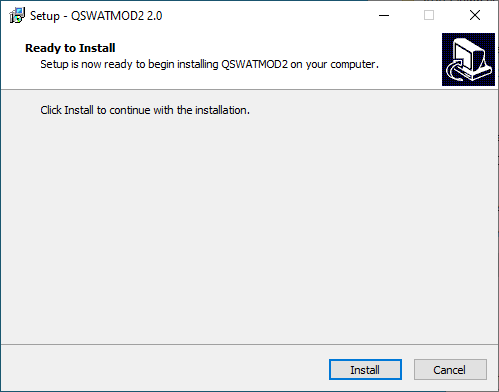
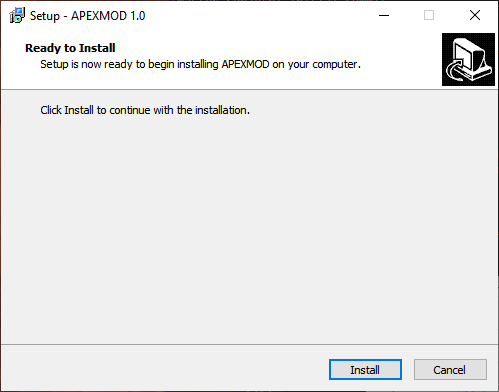
initial commit

diff --git a/README.md b/README.md
@@ -1,22 +1,22 @@
-# <img src="./imgs/icon.png" style="float" width="60" align="center"> &nbsp; QSWATMOD2
+# <img src="./imgs/icon.png" style="float" width="80" align="center"> &nbsp; APEXMOD
 
-#### :exclamation: ***Note:*** `QSWATMOD2 is compatible with QGIS3.`
+#### :exclamation: ***Note:*** `APEXMOD is compatible with QGIS3.`
 
-[QSWATMOD](https://swat.tamu.edu/software/swat-modflow/) is a QGIS-based graphical user interface that facilitates linking SWAT and MODFLOW, running SWAT-MODFLOW simulations, and viewing results.  
+APEXMOD is a QGIS-based graphical user interface that facilitates linking [APEX](https://epicapex.tamu.edu/apex//) and [MODFLOW](https://www.usgs.gov/mission-areas/water-resources/science/modflow-and-related-programs?qt-science_center_objects=0#qt-science_center_objects), running APEX-MODFLOW simulations, and viewing results.  
 
-This repository contains source codes and an executable for the new version of QSWATMOD.
-All other materials: example dataset and tutorial document can be downloaded from the old version of QSWATMOD repository.
-- **[Installer](https://github.com/spark-brc/QSWATMOD2/tree/master/Installer):** QSWATMOD 2.0.exe
-- **[Inputs](https://github.com/spark-brc/QSWATMOD2/tree/master/Inputs):** ExampleDataset.zip
-- **[Source Code](https://github.com/spark-brc/QSWATMOD2/tree/master/QSWATMOD2)**
-- **[Tutorial Document](https://github.com/spark-brc/qswatmod/blob/master/QSWATMOD%20Tutorial.pdf)**
+This repository contains source codes and an executable for the new version of APEXMOD.
+All other materials: example dataset and tutorial document can be downloaded from the old version of APEXMOD repository.
+- **[Installer](https://github.com/spark-brc/APEXMOD/releases/tag/1.0.a):** APEXMOD 1.0.a.exe
+- **[Inputs](https://drive.google.com/drive/folders/1FPpKub6IljjjncCjxZeV6LIsZ-HpYsJP?usp=sharing):** Animas Dataset.zip
+- **[Source Code](https://github.com/spark-brc/APEXMOD/tree/master/APEXMOD)**
+- **[Tutorial Document](https://github.com/spark-brc/qswatmod/blob/master/APEXMOD%20Tutorial.pdf)** will be provided soon!
 
 -----
-# Installation
-The QGIS3 software must be installed on the system prior to the installation of QSWATMOD2. We've tested QSWATMOD2 with the "latest release" (3.12.2) and  “long term release (LTR)” (3.10.4 ~ 3.10.5) versions of QGIS3.
+# <img src="./imgs/icon2.png" style="float" width="80" align="center"> &nbsp; Installation
+The QGIS3 software must be installed on the system prior to the installation of APEXMOD. We've tested APEXMOD with the “long term release (LTR)” (3.10.4 ~ 3.10.10) versions of QGIS3.
 
 - Install one of the versions of QGIS. It can be downloaded from https://qgis.org/en/site/forusers/download.html.
-- Download [the QSWATMOD installer](https://github.com/spark-brc/QSWATMOD2/raw/master/Installer/QSWATMOD2.exe) and install it by running QSWATMOD 2.0.exe or a later version. The QSWATMOD2 is installed into the user's home directory *(~\AppData\Roaming\QGIS\QGIS3\profiles\default\python\plugins\QSWATMOD2)*, which we will refer to as the QSWATMOD2 plugin directory.
+- Download [the APEXMOD installer](https://github.com/spark-brc/APEXMOD/raw/master/Installer/APEXMOD.exe) and install it by running APEXMOD 1.0.a.exe or a later version. The APEXMOD is installed into the user's home directory *(~\AppData\Roaming\QGIS\QGIS3\profiles\default\python\plugins\APEXMOD)*, which we will refer to as the APEXMOD plugin directory.
 
 <p align="center">
     <img src="./imgs/fig_01.png" width="200" align="center">
@@ -25,56 +25,25 @@ The QGIS3 software must be installed on the system prior to the installation of 
     <img src="./imgs/fig_02.png" width="500">
 </p>
 
-QSWATMOD2 includes all dependencies ([FloPy](https://www.usgs.gov/software/flopy-python-package-creating-running-and-post-processing-modflow-based-models) ([Bakker et al., 2016](https://onlinelibrary.wiley.com/doi/abs/10.1002/hyp.10933)) and [PyShp](https://pypi.org/project/pyshp/)) directly in the plugin to avoid user-installation.  
-- Open QGIS3 after the installation of QSWATMOD2 is finished.
+APEXMOD includes all dependencies ([FloPy](https://www.usgs.gov/software/flopy-python-package-creating-running-and-post-processing-modflow-based-models) ([Bakker et al., 2016](https://onlinelibrary.wiley.com/doi/abs/10.1002/hyp.10933)) and [PyShp](https://pypi.org/project/pyshp/)) directly in the plugin to avoid user-installation.  
+- Open QGIS3 after the installation of APEXMOD is finished.
 
-If you don't see QSWAMOD2 icon on the toolbar,
+If you don't see APEXMOD icon on the toolbar,
 - Go to Plugins menu and open Manage and Install Plugins
 <p align="center">
     <img src="./imgs/fig_03.png" width="700">
 </p>
 
-- Click the installed tab and check QSWATMOD2 box to activate the plugin.
+- Click the installed tab and check APEXMOD box to activate the plugin.
 <p align="center">
     <img src="./imgs/fig_04.png" width="450">
 
-Now, you will see the QSWATMOD2 icon on the toolbar.
+Now, you will see the APEXMOD icon on the toolbar.
 <p align="center">
     <img src="./imgs/fig_05.png" width="300">
 </p>
 
 <br>
 
-# New features added to QSWATMOD2
-
-There are two additional features in QSWATMOD2.
-- ### Add or subtract rows and columns  
-    The "Create grid" algorithm in QGIS uses a given spatial extent and not the number of rows and columns. Thus, the algorithm occasionally creates more number of column or row, or less number of them. Once a MODFLOW grid is created, first check the number of columns and rows by labeling 'col' or 'row' on the 'mf_grid' layer. <br>
-    For example, I want to create a MODFLOW grid with 700 m by 700 m grid cells for a given subbasin extent (**same as MODFLOW option 2** in linking process), resulting in one column too few in the MODFLOW grid. I can then use the “Add or Subtract Row and Column” option to add one column.
-    <p align="center">
-        <img src="./imgs/fig_06.png" width="1200">
-    </p>
-
-- ### Threshold setting on DHRU size
-
-    During the linking process, disaggregating HRUs often generates a large number of very small DHRUs. These DHRUs then are intersected with the MODFLOW grid cells, to provide a connection between HRU variables and MODFLOW grid cells during the SWAT-MODFLOW simulation ([Bailey et al., 2016](https://onlinelibrary.wiley.com/doi/abs/10.1002/hyp.10933)). For a large SWAT-MODFLOW models, these small DHRUs are insignificant in terms of passing data (e.g. recharge) from SWAT HRUs to MODFLOW grid cells,  but can slow down the linkage process and SWAT-MODFLOW simulation speed.
-    <br>
-    
-    Therefore, QSWATMOD now has the option to limit the size of DHRUs. The threshold setting on DRHU size option has been tested with an example data set. We tested several threshold settings on DHRU size using full DHRUs (no threshold), and DHRUs that must be > 9000, > 30000, > 60000, and > 125000 m<sup>2</sup>. The following figures show differences in spatial coverage that results in using different threshold settings. A proper threshold setting on DHRU size may speed up the linking process and the SWAT-MODFLOW simulation without losing information (e.g. recharge rate).
-    <br>
-    <p align="center">
-        <img src="./imgs/fig_07.png" width="1200">
-    </p>
-
-<br>
-<br>
-
-In addition, [documentation and the SWAT-MODFLOW executable](https://swat.tamu.edu/software/swat-modflow/) are available as downloads. QSWATMOD and SWAT-MODFLOW have been tested in several watersheds. However, no warranty is given that either the model or tool is error-free. If you encounter problems with the model, tool or have suggestions for improvement, please comment at [the SWAT-MODFLOW Google group](https://groups.google.com/forum/?hl=en#!forum/swat-modflow) or [QSWATMOD github](https://github.com/spark-brc/QSWATMOD2/issues).
-
-A publication documenting QSWATMOD and an example application can be found here:  
-[https://doi.org/10.1016/j.envsoft.2018.10.017](https://doi.org/10.1016/j.envsoft.2018.10.017)
-
 # References
-[Bailey, R.T., Wible, T.C., Arabi, M., Records, R.M. and Ditty, J., 2016. Assessing regional‐scale spatio‐temporal patterns of groundwater–surface water interactions using a coupled SWAT‐MODFLOW model. Hydrological processes, 30(23), pp.4420-4433, https://doi.org/10.1002/hyp.10933.](https://onlinelibrary.wiley.com/doi/abs/10.1002/hyp.10933)
-
 [Bakker, M., Post, V., Langevin, C. D., Hughes, J. D., White, J. T., Starn, J. J. and Fienen, M. N., 2016, Scripting MODFLOW Model Development Using Python and FloPy: Groundwater, v. 54, p. 733–739, doi:10.1111/gwat.12413.](https://ngwa.onlinelibrary.wiley.com/doi/full/10.1111/gwat.12413)
